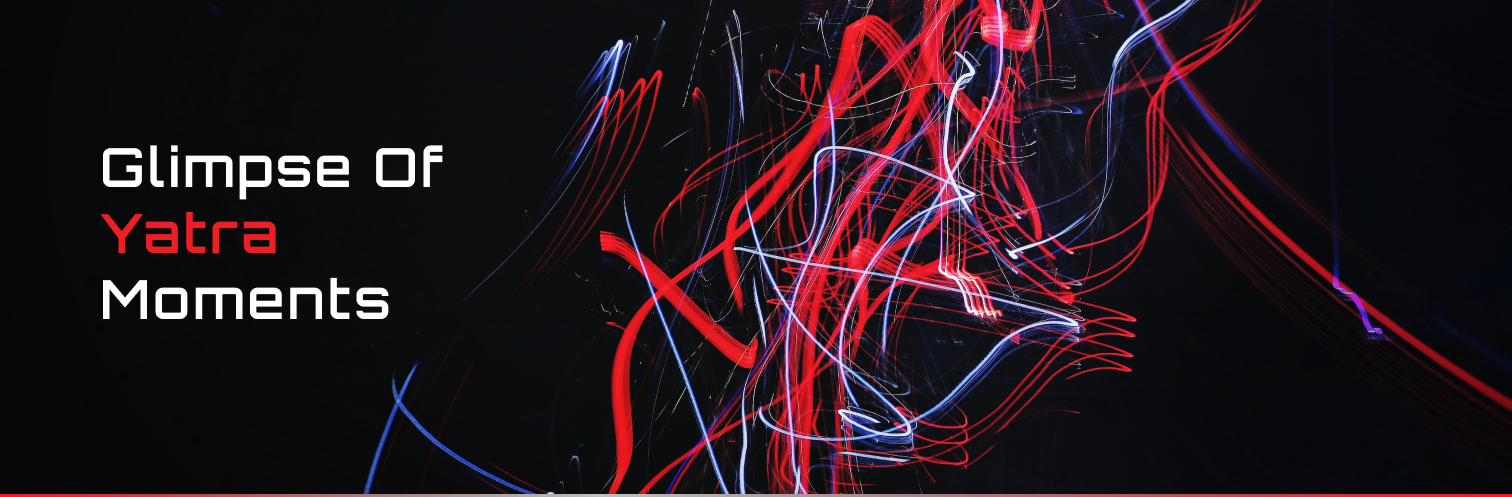
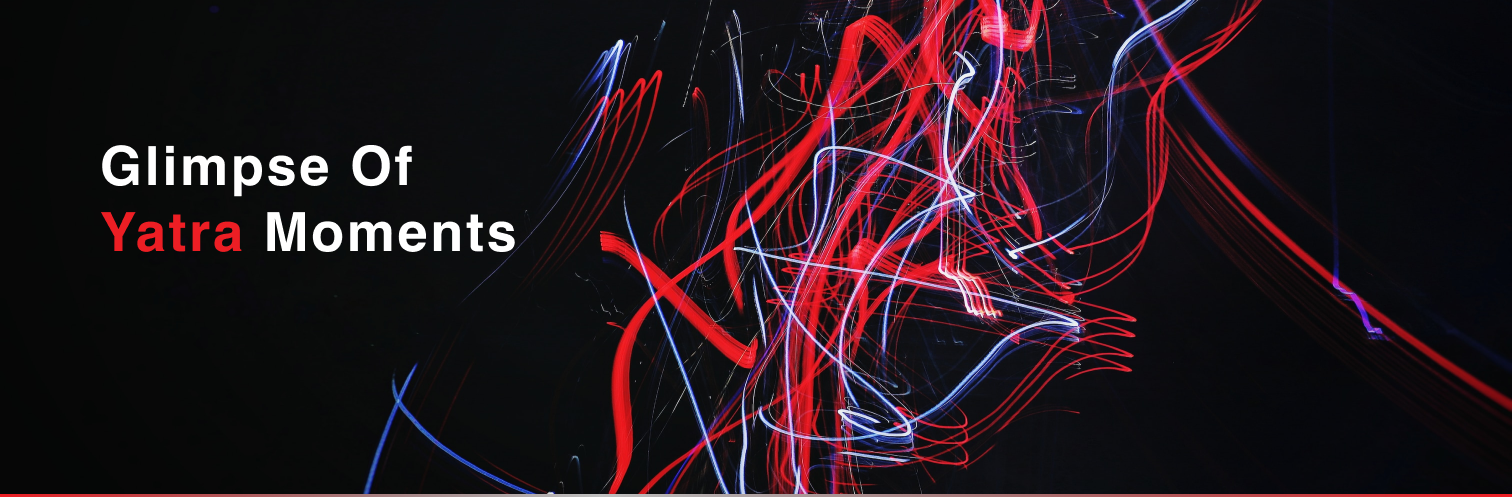
re-design gallary page (#51)

Changed region(s): [[0.0622, 0.2716, 0.3108, 0.3924], [0.0622, 0.4225, 0.3419, 0.5131], [0.0622, 0.5734, 0.2798, 0.664]]

diff --git a/src/pages/gallary.jsx b/src/pages/gallary.jsx
@@ -19,79 +19,95 @@ const Gallery = () => {
         <img src={gallery} className="img-fluid" alt="aboutimage" />
       </div>
       <div className="container">
-        <div className="grid-container mt-5">
-          <div className='row justify-content-between d-flex'>
-            <div className='col-lg-6 col-md-6'>
-            <div className="item text-center text-md-start text-lg-start">
-            <h1 className="photo-gallery text-white">
-              A Photo<br/> Gallery of <br />
-              <span className="red">Yatra Nepal</span>
-            </h1>
-            <p className="gallery-desc text-white">
-              Check out some gimps of our<br/> service at
-              <span className="red"> Yatra Nepal</span>.
-            </p>
-          </div>
+        <div className="grid-container">
+          <div className="row justify-content-between d-flex">
+            <div className="col-lg-6 col-md-6">
+              <div className="item text-center text-md-start text-lg-start">
+                <h1 className="photo-gallery text-white">
+                  <span className="red">Yatra's</span>
+                  <br /> Moments Of Glimpse
+                </h1>
+                <p className="gallery-desc text-white mt-4">
+                  Check out some gimps of our service at
+                  <span className="red">
+                    <br /> Yatra Nepal
+                  </span>
+                  .
+                </p>
+              </div>
             </div>
-            <div className='col-lg-3 col-md-3 align-self-end col-12'>
-            <div className="item-1 text-center mt-3">
-            <img src={photo1} className="img-fluid mb-3" alt="gallary-img" />
-          </div>
-            </div>
-          </div>
-
-          <div className='row d-flex justify-content-end'>
-          <div className='col-lg-3 align-self-end col-md-3 col-12'>
-            <div className="item-5 text-center">
-            <img src={photo5} className="img-fluid" alt="gallary-img" />
-          </div>
-            </div>
-            <div className='col-lg-3 col-md-3 col-12'>
-            <div className="item-4 text-center my-3 my-lg-0 my-md-0">
-            <img src={photo4} className="img-fluid" alt="gallary-img" />
-          </div>
-            </div>
-            <div className='col-lg-3 col-md-3 col-12'>
-            <div className="item-2 text-center">
-            <img src={photo2} className="img-fluid" alt="gallary-img" />
-            <img src={photo3} className="img-fluid mt-4" alt="gallary-img" />
-          </div>
-            </div>
-            
-          </div>
-          <div className='row d-flex justify-content-end'>
-          <div className='col-lg-3 align-self-end col-md-3 col-12'>
-            <div className="item-8 text-center mt-3">
-            <img src={photo8} className="img-fluid" alt="gallary-img" />
-          </div>
-            </div>
-            <div className='col-lg-3 col-md-3 col-12'>
-            <div className="item-7 text-center">
-            <img src={photo7} className="img-fluid mt-3" alt="gallary-img" />
-          </div>
-            </div>
-            <div className='col-lg-6 gy-3 col-md-6 col-12'>
-            <div className="item-6 text-center">
-            <img src={photo6} className="img-fluid" alt="gallary-img" />
-          </div>
-            </div>
-            
-          </div>
-          <div className='row d-flex justify-content-end'>
-            <div className='col-lg-6 col-md-6 col-12'>
-            <div className="item-10 text-center">
-            <img src={photo10} className="img-fluid mt-3" alt="gallary-img" />
-          </div>
-            </div>
-            <div className='col-lg-6 gy-3 col-md-6 col-12'>
-            <div className="item-9 text-center">
-            <img src={photo9} className="img-fluid" alt="gallary-img" />
-          </div>
-            </div>
-            </div>
+            <div className="col-lg-3 col-md-3 align-self-end col-12">
+              <div className="item-1 text-center mt-3">
+                <img
+                  src={photo1}
+                  className="img-fluid mb-3"
+                  alt="gallary-img"
+                />
+              </div>
             </div>
           </div>
 
+          <div className="row d-flex justify-content-end">
+            <div className="col-lg-3 align-self-end col-md-3 col-12">
+              <div className="item-5 text-center">
+                <img src={photo5} className="img-fluid" alt="gallary-img" />
+              </div>
+            </div>
+            <div className="col-lg-3 col-md-3 col-12">
+              <div className="item-4 text-center my-3 my-lg-0 my-md-0">
+                <img src={photo4} className="img-fluid" alt="gallary-img" />
+              </div>
+            </div>
+            <div className="col-lg-3 col-md-3 col-12">
+              <div className="item-2 text-center">
+                <img src={photo2} className="img-fluid" alt="gallary-img" />
+                <img
+                  src={photo3}
+                  className="img-fluid mt-4"
+                  alt="gallary-img"
+                />
+              </div>
+            </div>
+          </div>
+          <div className="row d-flex justify-content-end">
+            <div className="col-lg-3 align-self-end col-md-3 col-12">
+              <div className="item-8 text-center mt-3">
+                <img src={photo8} className="img-fluid" alt="gallary-img" />
+              </div>
+            </div>
+            <div className="col-lg-3 col-md-3 col-12">
+              <div className="item-7 text-center">
+                <img
+                  src={photo7}
+                  className="img-fluid mt-3"
+                  alt="gallary-img"
+                />
+              </div>
+            </div>
+            <div className="col-lg-6 gy-3 col-md-6 col-12">
+              <div className="item-6 text-center">
+                <img src={photo6} className="img-fluid" alt="gallary-img" />
+              </div>
+            </div>
+          </div>
+          <div className="row d-flex justify-content-end">
+            <div className="col-lg-6 col-md-6 col-12">
+              <div className="item-10 text-center">
+                <img
+                  src={photo10}
+                  className="img-fluid mt-3"
+                  alt="gallary-img"
+                />
+              </div>
+            </div>
+            <div className="col-lg-6 gy-3 col-md-6 col-12">
+              <div className="item-9 text-center">
+                <img src={photo9} className="img-fluid" alt="gallary-img" />
+              </div>
+            </div>
+          </div>
+        </div>
+      </div>
     </>
   )
 }

diff --git a/src/styles/gallery.css b/src/styles/gallery.css
@@ -1,15 +1,21 @@
+.grid-container{
+    margin-top: 142px;
+    margin-bottom: 142px;
 
+}
 .photo-gallery {
-    font-family: 'Poppins';
+    font-family: 'Helvetica'; 
     font-style: normal;
     font-weight: 400;
     font-size: 48px;
-    line-height: 72px;
     color: #FFFFFF;
+    line-height: 55px;
+    line-height: 55px;
+
 }
 
 .gallery-desc {
-    font-family: 'Poppins';
+    font-family: 'Helvetica'; 
     font-style: normal;
     font-weight: 400;
     font-size: 20px;
